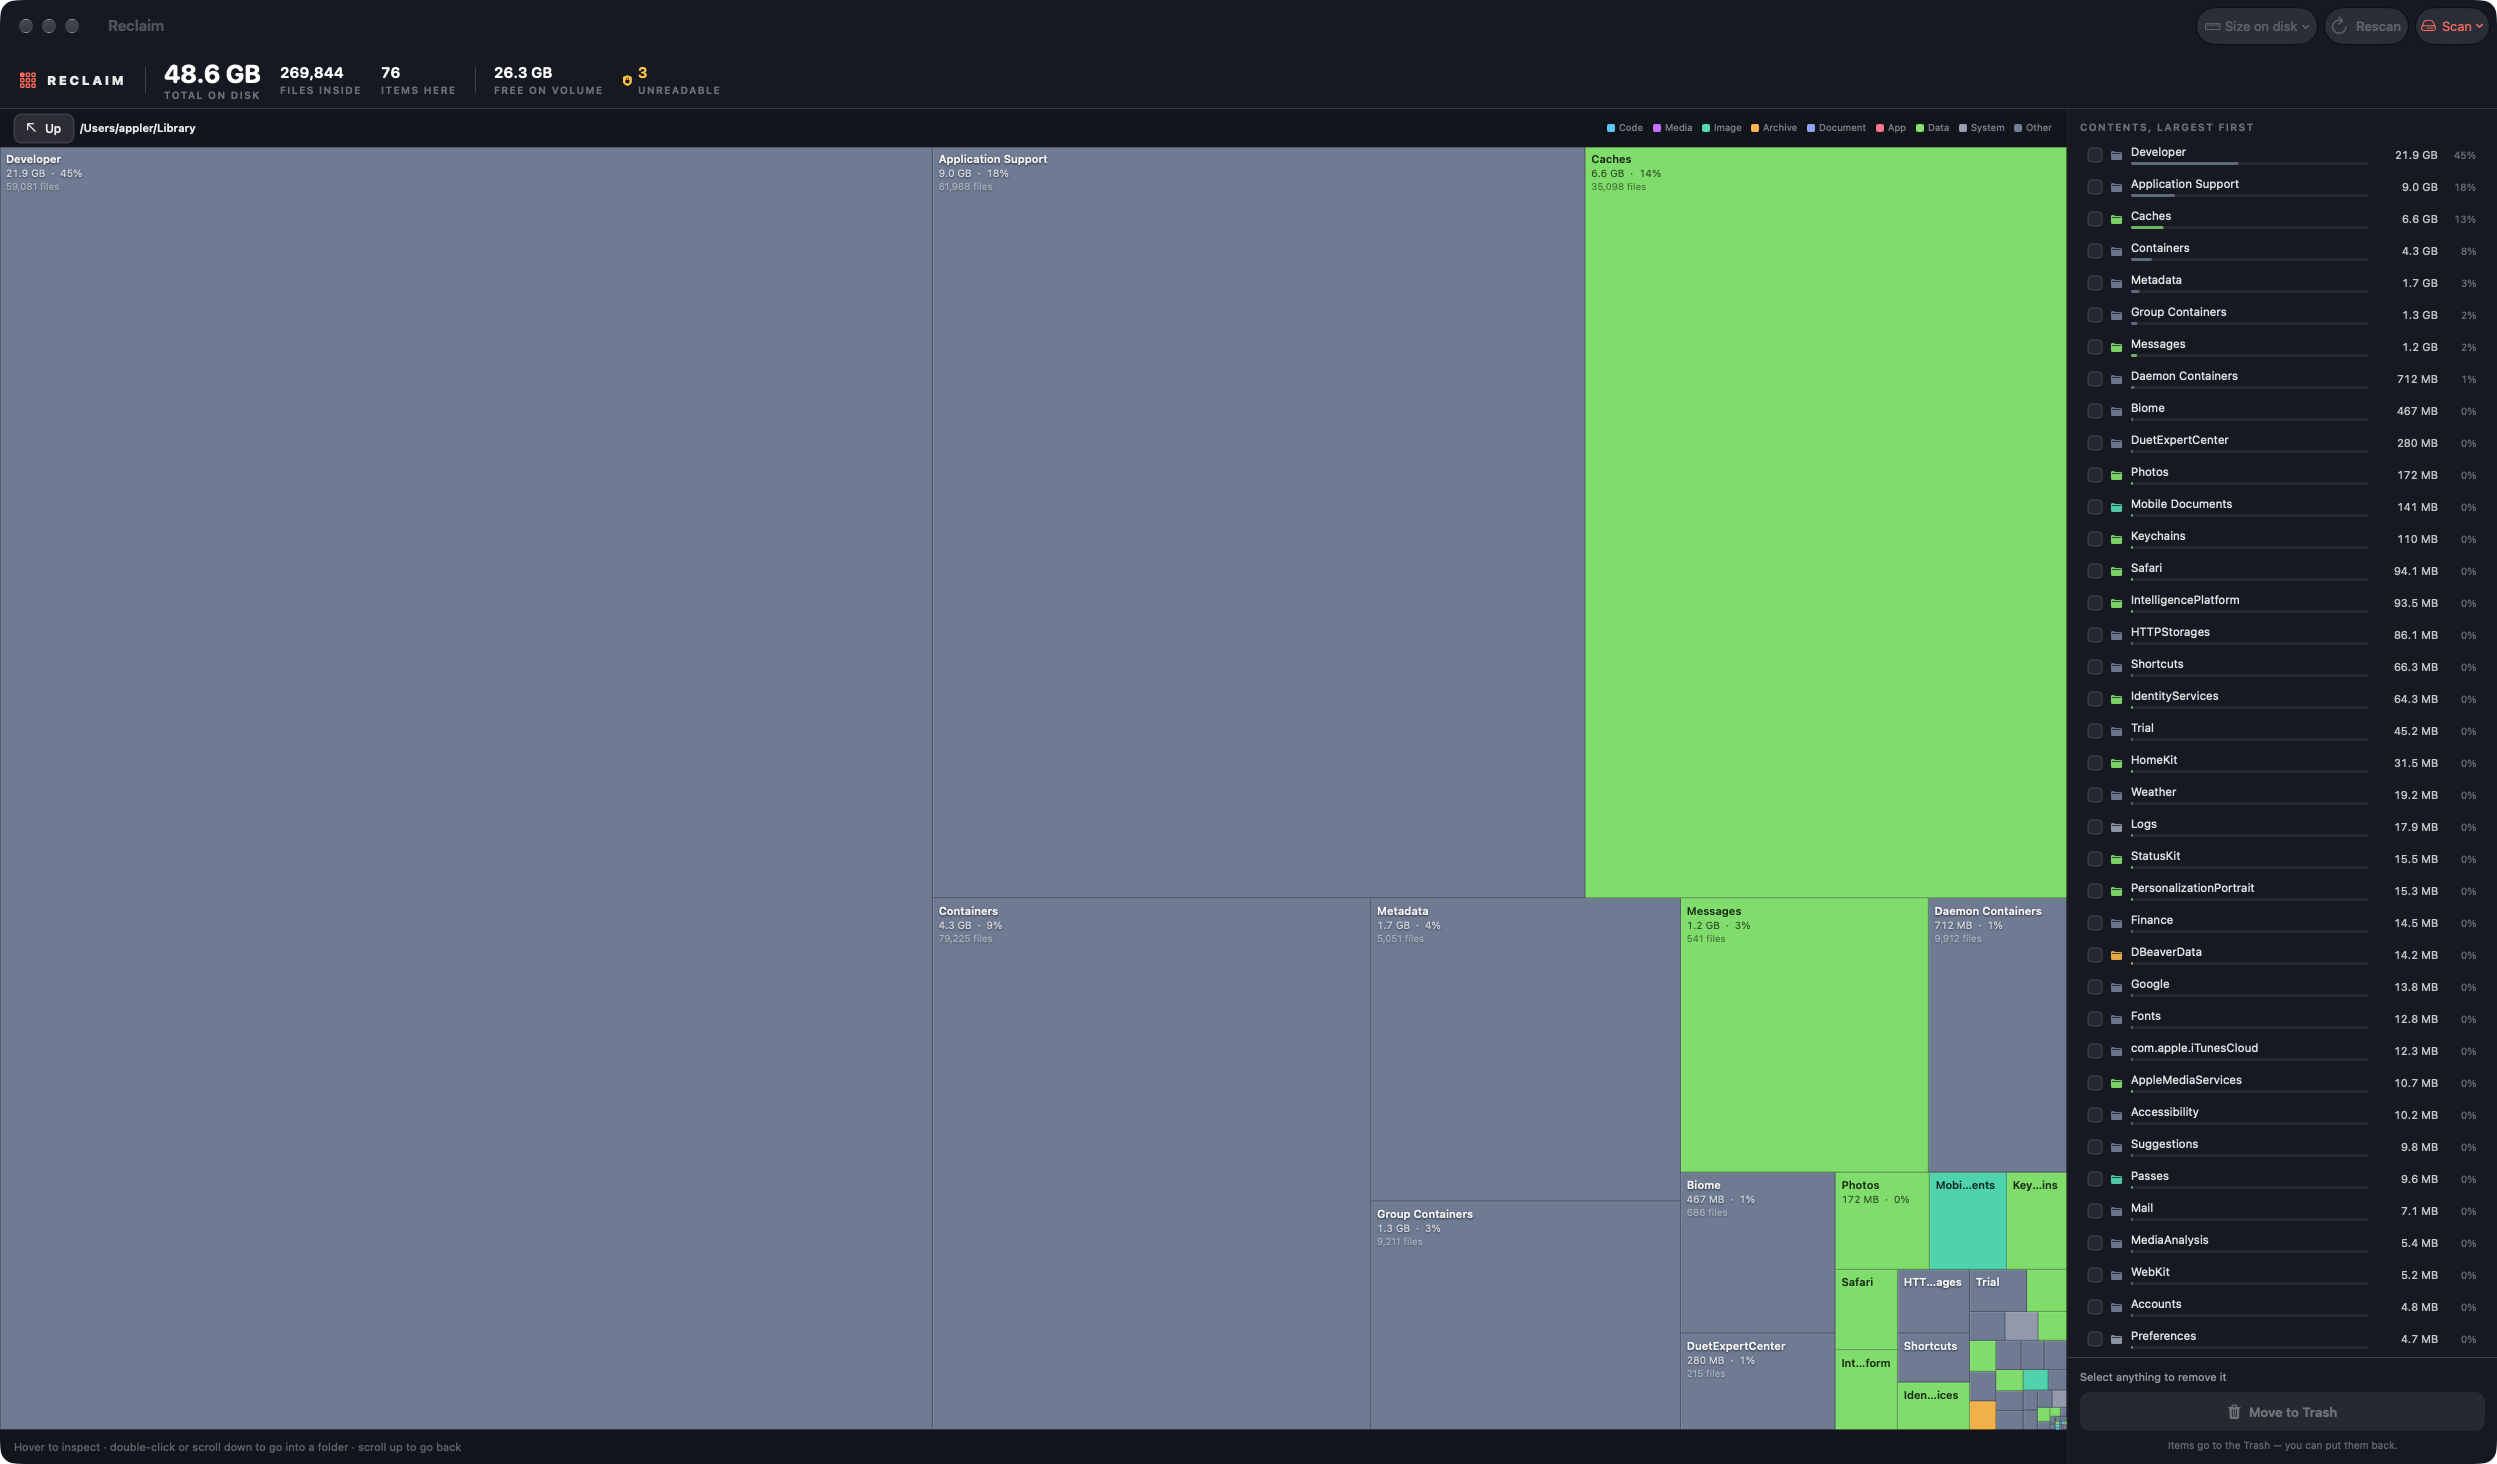
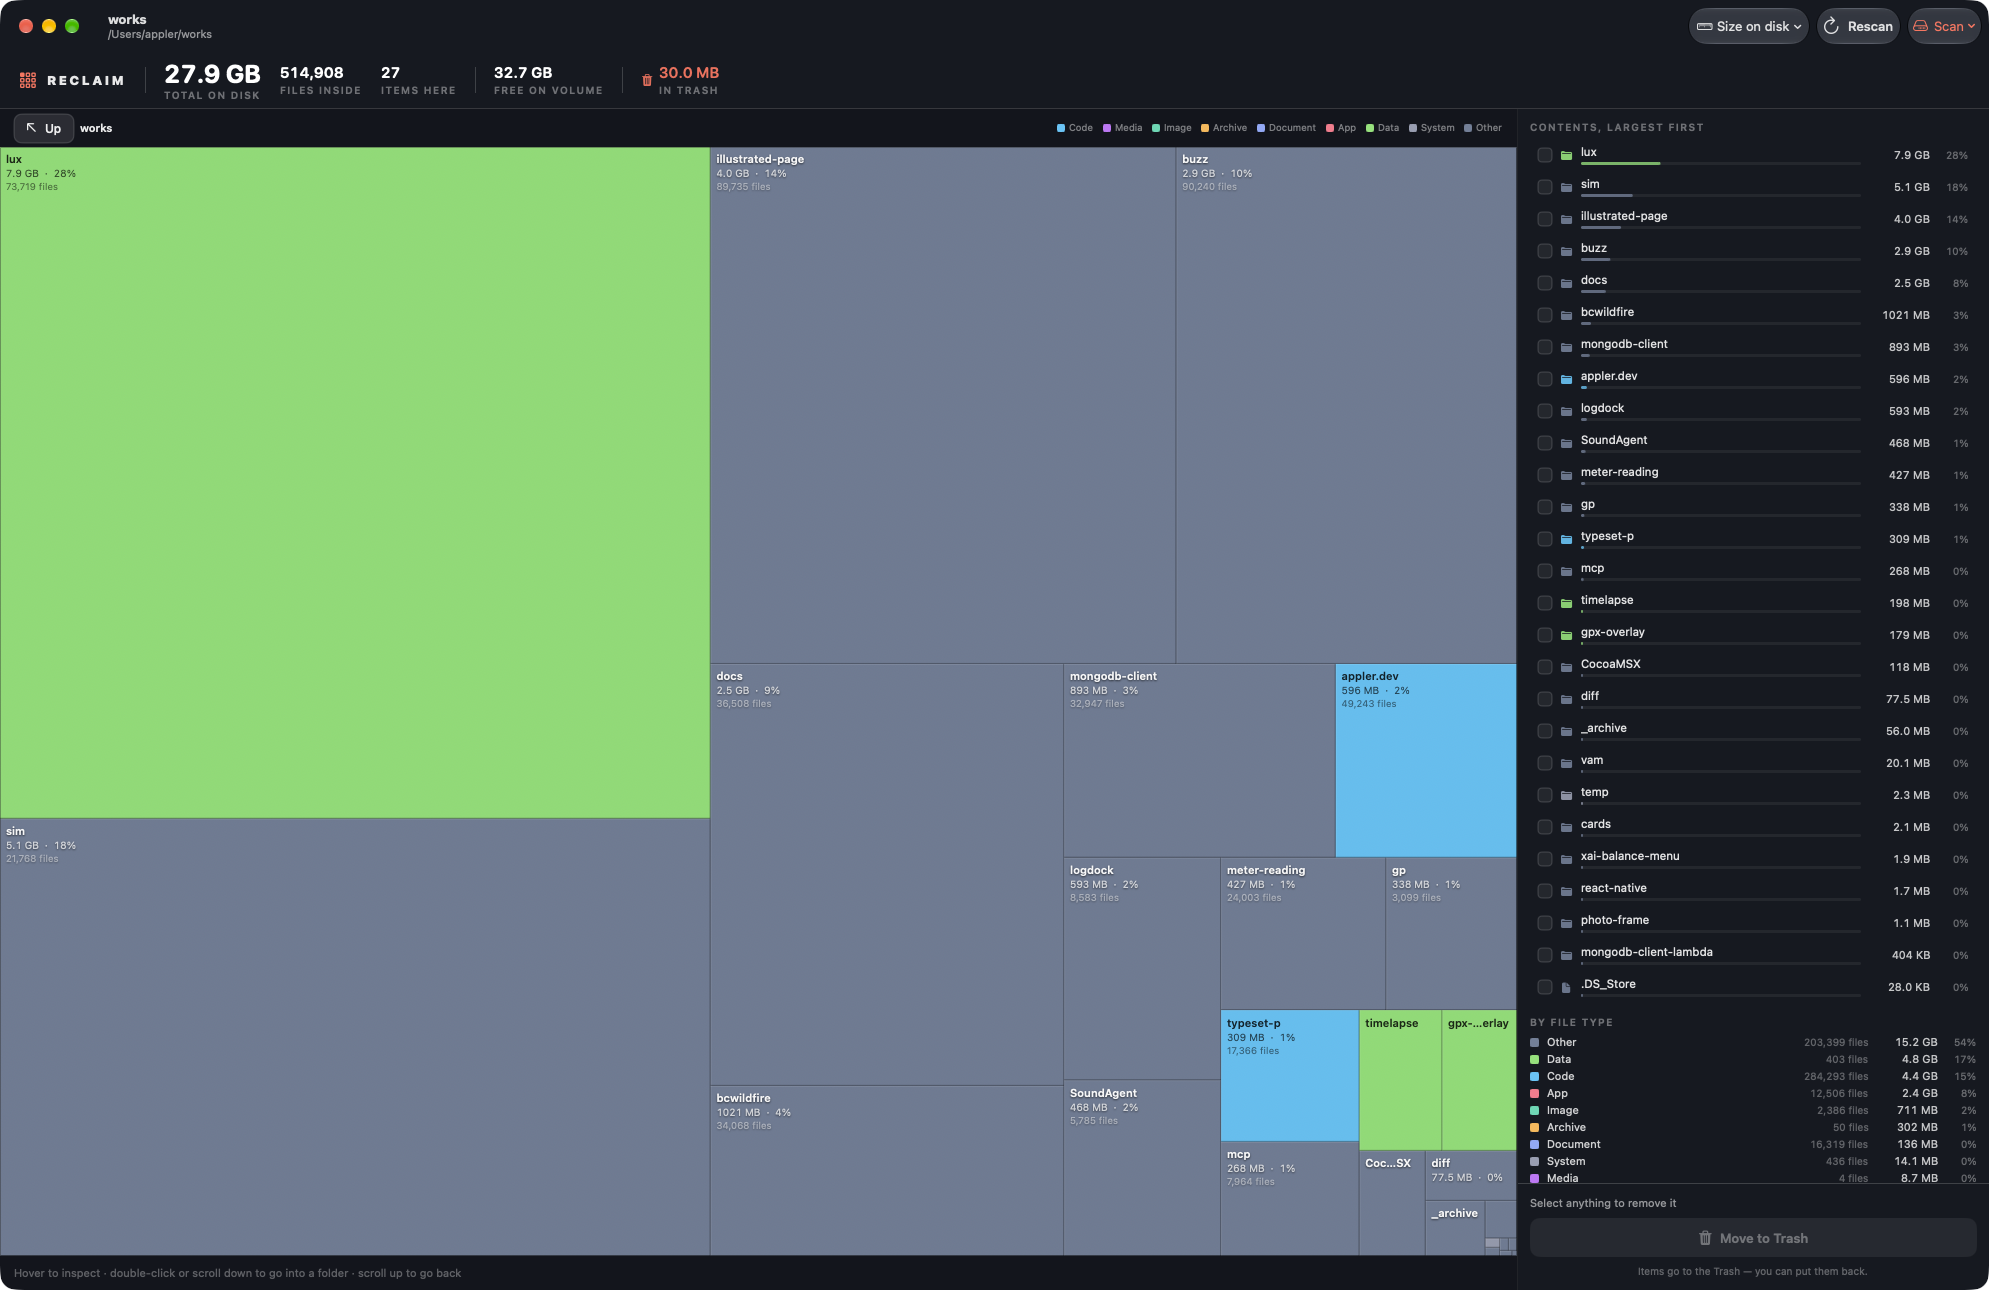
fix(reclaim): the title bar names the scan, not the app
"Reclaim" appeared twice at the top of the window: once as the window title and
once as the app's own wordmark below it. The window title now names what is
open — the volume or folder being scanned — with the folder in view spelled out
underneath, which is the macOS convention and tells the window switcher and
Mission Control something useful.

The breadcrumb's first crumb was the scan root's full path, which repeated that
subtitle. It is now the same short name the title uses, so the title bar carries
the absolute location and the breadcrumb stays a navigation trail.

diff --git a/Sources/DiskMap/ContentView.swift b/Sources/DiskMap/ContentView.swift
@@ -45,6 +45,12 @@ struct ContentView: View {
             model.scanLaunchArgumentIfPresent()
             startResizeStressIfRequested()
         }
+        // The title bar names what is open, not the app — the app's own name is
+        // already on screen in the header, and repeating it says nothing. This
+        // also makes the window identifiable in Mission Control and the window
+        // menu when several scans are open.
+        .navigationTitle(windowTitle)
+        .navigationSubtitle(windowSubtitle)
         .preferredColorScheme(.dark)
         .toolbar {
             ToolbarItemGroup(placement: .primaryAction) {
@@ -124,6 +130,18 @@ struct ContentView: View {
             }
         }
         RunLoop.main.add(timer, forMode: .common)
+    }
+
+    /// The title bar names what is open; the breadcrumb below handles navigation
+    /// within it, so the two do not repeat each other.
+    private var windowTitle: String {
+        model.scanRoot == nil ? "Reclaim" : model.scanTargetName
+    }
+
+    /// The absolute path of the folder in view — the one place it is spelled out
+    /// in full, which is why the breadcrumb can stay short.
+    private var windowSubtitle: String {
+        model.zoomRoot?.path ?? ""
     }
 
     private func performTrash() {
@@ -273,7 +291,7 @@ private struct MapPane: View {
                                     .foregroundStyle(.white.opacity(0.25))
                             }
                             Button { model.show(node) } label: {
-                                Text(index == 0 ? node.name : node.name)
+                                Text(index == 0 ? model.scanTargetName : node.name)
                                     .font(.system(size: 11, weight: index == model.breadcrumb.count - 1 ? .semibold : .regular))
                                     .foregroundStyle(.white.opacity(index == model.breadcrumb.count - 1 ? 0.92 : 0.5))
                             }

diff --git a/Sources/DiskMap/AppModel.swift b/Sources/DiskMap/AppModel.swift
@@ -142,6 +142,18 @@ final class AppModel: ObservableObject {
         NSWorkspace.shared.open(url)
     }
 
+    /// Short name for what is being scanned: a volume by its name, otherwise the
+    /// folder's own name. The scan root's `name` is a full path, which is too
+    /// long for a breadcrumb or a window title.
+    var scanTargetName: String {
+        guard let url = scannedURL else { return "Reclaim" }
+        if url.path == "/" {
+            return volumes.first { $0.isStartupVolume }?.name ?? "Macintosh HD"
+        }
+        if let volume = volumes.first(where: { $0.url == url }) { return volume.name }
+        return url.lastPathComponent.isEmpty ? url.path : url.lastPathComponent
+    }
+
     var scannedBytes: UInt64 { scanRoot?.size(measure) ?? 0 }
     var viewedBytes: UInt64 { zoomRoot?.size(measure) ?? 0 }
     var stagedBytes: UInt64 { staged.reduce(0) { $0 + $1.size(measure) } }
